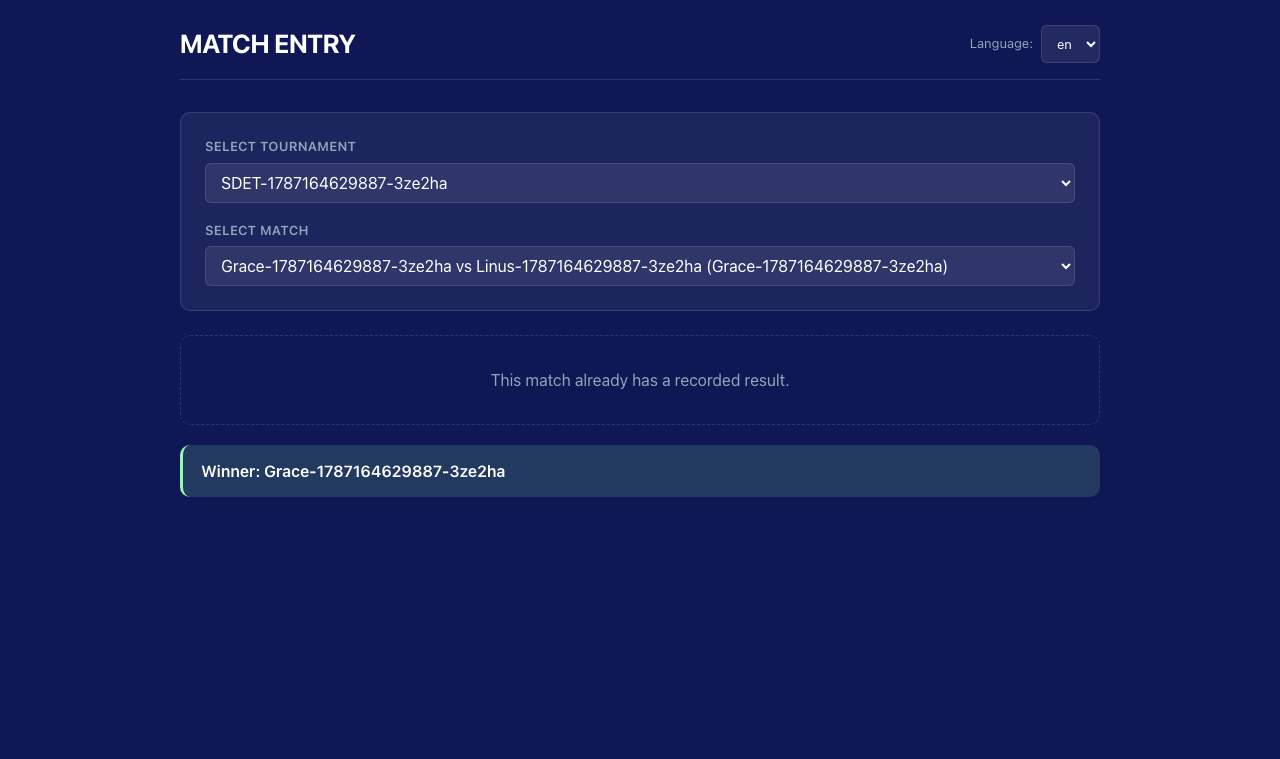
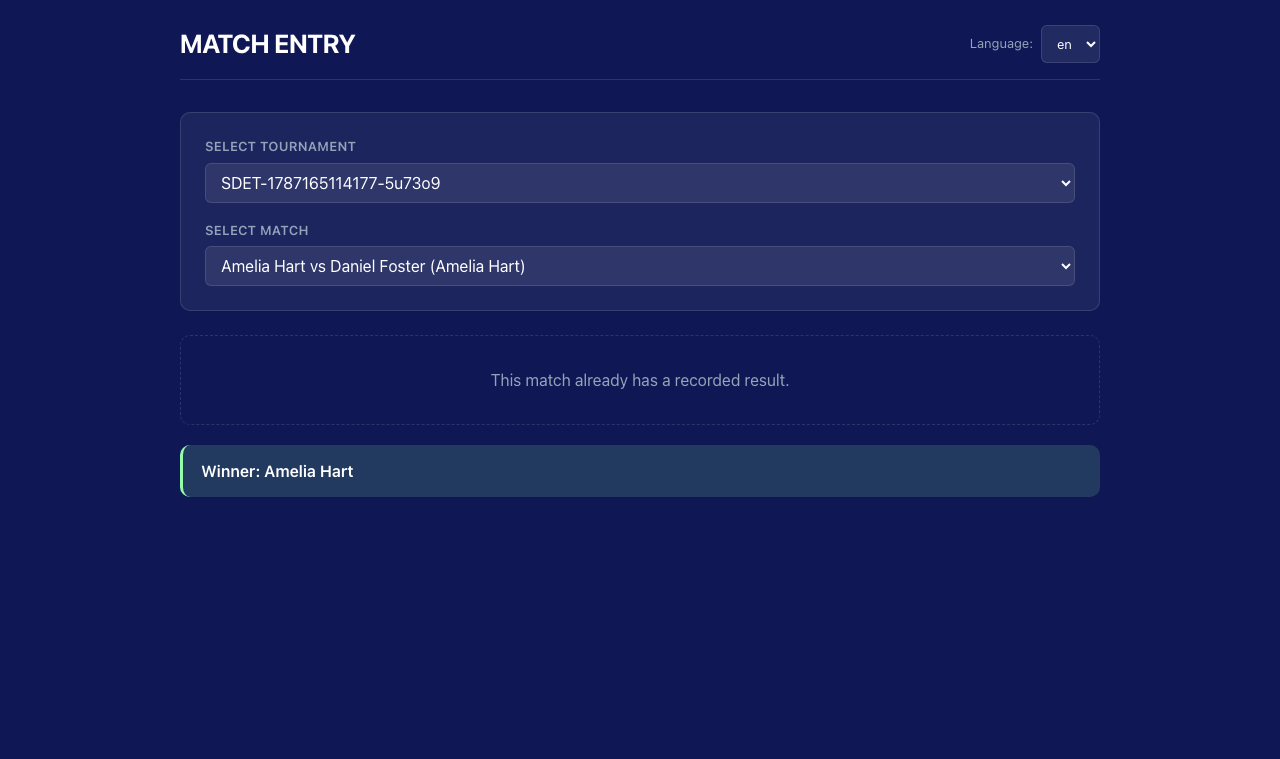
test: add step logging and realistic contestant names

Changed region(s): [[0.1562, 0.3333, 0.75, 0.3636], [0.1875, 0.6061, 0.4062, 0.6364], [0.25, 0.2121, 0.3438, 0.2727]]

diff --git a/automation/src/support/hooks.ts b/automation/src/support/hooks.ts
@@ -1,5 +1,12 @@
 import { mkdir } from "node:fs/promises";
-import { After, Before, Status, setDefaultTimeout } from "@cucumber/cucumber";
+import {
+  After,
+  AfterStep,
+  Before,
+  BeforeStep,
+  Status,
+  setDefaultTimeout,
+} from "@cucumber/cucumber";
 import { chromium, firefox, webkit, type BrowserType } from "@playwright/test";
 import { environment } from "../config/environment.js";
 import { ConfigurationPage } from "../pages/configuration.page.js";
@@ -15,7 +22,8 @@ setDefaultTimeout(environment.timeoutMs);
 
 const browsers: Record<string, BrowserType> = { chromium, firefox, webkit };
 
-Before(async function (this: TestWorld) {
+Before(async function (this: TestWorld, scenario) {
+  console.log(`\n[SCENARIO START] ${scenario.pickle.name}`);
   this.application = new ApplicationService(
     environment.apiUrl,
     environment.configUiUrl,
@@ -41,6 +49,21 @@ Before(async function (this: TestWorld) {
   this.verifier = new TournamentVerifier(this.database, this.configuration, this.matchEntry);
 });
 
+BeforeStep(function (this: TestWorld, { pickleStep }) {
+  this.stepStartedAt = Date.now();
+  console.log(`[STEP START] ${pickleStep.text}`);
+});
+
+AfterStep(function (this: TestWorld, { pickleStep, result }) {
+  const durationMs = this.stepStartedAt ? Date.now() - this.stepStartedAt : 0;
+  const status = result?.status ?? Status.UNKNOWN;
+  console.log(`[STEP ${status}] ${pickleStep.text} (${durationMs} ms)`);
+
+  if (status === Status.FAILED && result?.message) {
+    console.error(`[STEP ERROR] ${result.message.split("\n", 1)[0]}`);
+  }
+});
+
 After(async function (this: TestWorld, scenario) {
   const scenarioSlug = scenario.pickle.name.replace(/[^a-z0-9]+/gi, "-").toLowerCase();
   const capturesEvidence = scenario.pickle.tags.some(({ name }) => name === "@evidence");
@@ -64,4 +87,5 @@ After(async function (this: TestWorld, scenario) {
   if (this.data) await this.database.cleanupTournament(this.data.name);
   await this.database?.disconnect();
   await this.context?.browser()?.close();
+  console.log(`[SCENARIO ${scenario.result?.status ?? Status.UNKNOWN}] ${scenario.pickle.name}`);
 });

diff --git a/automation/src/data/tournament-data.ts b/automation/src/data/tournament-data.ts
@@ -7,9 +7,11 @@ export function buildTournamentData(): TournamentTestData {
   const suffix = `${Date.now()}-${Math.random().toString(36).slice(2, 8)}`;
   return {
     name: `SDET-${suffix}`,
-    contestants: ["Ada", "Grace", "Linus", "Margaret"].map(
-      (name) => `${name}-${suffix}`,
-    ),
+    contestants: [
+      "Amelia Hart",
+      "Benjamin Carter",
+      "Chloe Bennett",
+      "Daniel Foster",
+    ],
   };
 }
-

diff --git a/automation/src/support/world.ts b/automation/src/support/world.ts
@@ -26,6 +26,7 @@ export class TestWorld extends World {
   matchId?: string;
   apiResult?: ApiResult;
   standingsBefore?: StandingRecord[];
+  stepStartedAt?: number;
 
   constructor(options: IWorldOptions) {
     super(options);
